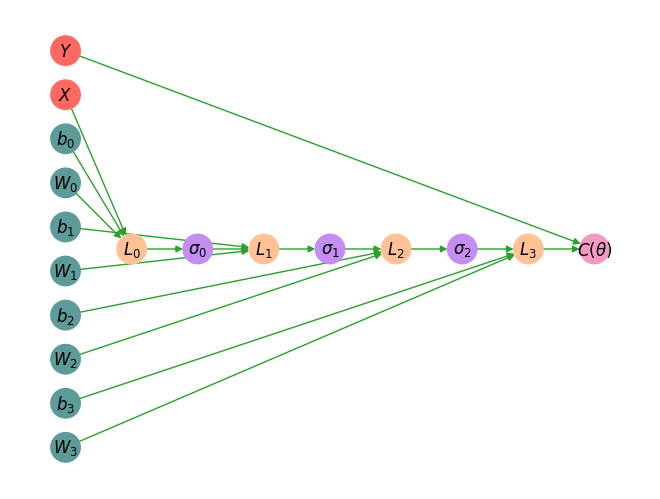
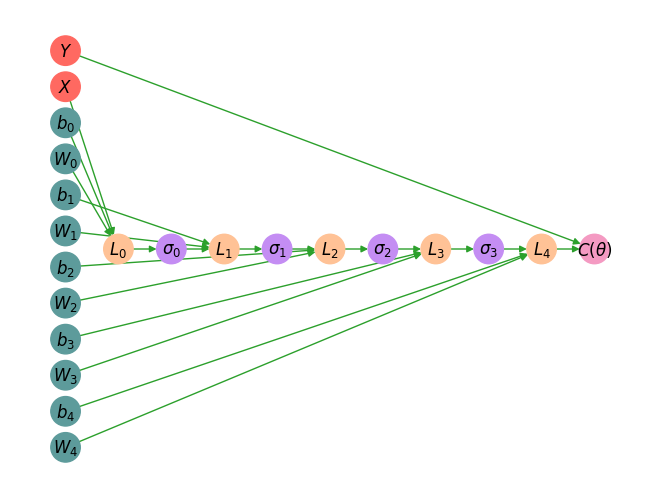
Adam implementation

diff --git a/assignment_1/my_mlp.py b/assignment_1/my_mlp.py
@@ -5,6 +5,8 @@ import matplotlib.pyplot as plt
 from torch.utils.data import Dataset, DataLoader
 import torch.distributions.uniform as urand
 from torch import nn
+import numpy as np
+import imageio
 
 
 class Node:
@@ -16,6 +18,8 @@ class Node:
 		self.is_updatable = is_updatable #for update the parameters
 		self.label = label # label for graph plot
 		self.color = color # color for graph plot
+	def add_edge(self, node):
+		self.parents.append(node)
 	def eval(self):
 		raise NotImplementedError
 	def update_derivatives(self):
@@ -62,6 +66,16 @@ class Sigmoid(Node):
 		s = self.value
 		d = s * (1 - s)
 		self.parents[0].grad += d * self.grad
+class ReLU(Node):
+	def __init__(self):
+		Node.__init__(self,[],label="$\sigma",color="#C48DF3")
+	def eval(self):
+		input = self.parents[0].value
+		self.value = torch.maximum(0*input, input)
+	def update_derivatives(self):
+		self.eval()
+		s = self.value		
+		self.parents[0].grad += (s > 0).float() * self.grad
 
 class MSE(Node):
 	def __init__(self, model):
@@ -123,6 +137,25 @@ class SGD:
 	def step(self):
 		for node in self.trainable_nodes:
 			node.value += -self.learning_rate * node.grad
+class Adam:
+	def __init__(self, trainable_nodes, learning_rate = 0.001, beta_1 = 0.9, beta_2 = 0.999):
+		self.trainable_nodes = trainable_nodes
+		self.learning_rate = learning_rate
+		self.beta_1 = beta_1
+		self.beta_2 = beta_2
+		self.n = len(trainable_nodes)
+		self.s = [0] * self.n # first moment variable
+		self.r = [0] * self.n # second moment variable
+		self.epslon = 1e-6 # avoid division by zero
+	def step(self):
+		for i in range(self.n):
+			node = self.trainable_nodes[i]
+			g = node.grad
+			self.s[i] = self.beta_1 * self.s[i] + (1 - self.beta_1)*g
+			self.r[i] = self.beta_2 * self.r[i] + (1 - self.beta_2)*(g*g)
+			s_c = self.s[i] / (1 - self.beta_1)
+			r_c = self.r[i] / (1 - self.beta_2)
+			node.value += -self.learning_rate * (s_c /(torch.sqrt(r_c) + self.epslon))
 
 class GraphNetwork:
 	def __init__(self, *args):
@@ -131,10 +164,10 @@ class GraphNetwork:
 		self.last_node = args[-1]
   		#update graph adjacency list
 		for i in range(1 , n_nodes):
-			args[i].parents.append(args[i-1])
+			args[i].add_edge(args[i-1])
 		#create a X layer and a Y layer
 		self.X = Const(label="$X$", color='#FF6961')
-		self.layers[0].parents.append(self.X) # create edge to first layer
+		self.layers[0].add_edge(self.X) # create edge to first layer
 		#sort the nodes in topological order for backpropagation
 		nodes_ordered = []
 		self.topological_sort(self.last_node, nodes_ordered)
@@ -188,19 +221,58 @@ class AlgebraicDataset(Dataset):
   def __getitem__(self, idx):
     return self.data[idx]
 
+def plot_comparison(f, model, interval=(-10, 10), nsamples=1000, return_array=True):
+  fig, ax = plt.subplots(figsize=(10, 10))
+
+  ax.grid(True, which='both')
+  ax.spines['left'].set_position('zero')
+  ax.spines['right'].set_color('none')
+  ax.spines['bottom'].set_position('zero')
+  ax.spines['top'].set_color('none')
+
+  samples = np.linspace(interval[0], interval[1], nsamples)
+  X =  torch.tensor(samples).unsqueeze(1).float()
+  pred = model.eval(X)
+#   model.eval()
+#   with torch.no_grad():
+#     pred = model(X)
+
+  ax.plot(samples, list(map(f, samples)), "o", label="ground truth")
+  ax.plot(samples, pred, label="model")
+  plt.legend()
+  #plt.show()
+  # to return image as numpy array
+  if return_array:
+    fig.canvas.draw()
+    img_from_plot = np.frombuffer(fig.canvas.tostring_rgb(), dtype=np.uint8)
+    return img_from_plot.reshape(fig.canvas.get_width_height()[::-1] + (3,))
+
+def test(model, dataloader, lossfunc):
+  '''A function for evaluating our model on test data'''  
+  cumloss = 0.0
+  for X, y in dataloader:
+      X = X.unsqueeze(1).float()
+      y = y.unsqueeze(1).float()
+
+      pred = model.eval(X)
+      loss = lossfunc.eval(pred, y)
+      cumloss += loss.item() 
+  
+  return cumloss / len(dataloader)
+
 class MultiLayerNetwork(nn.Module):
   def __init__(self):
     super().__init__()    
     self.layers = nn.Sequential(
         nn.Linear(1, 128),
-        nn.Sigmoid(),
-        nn.Linear(128,64),
-        nn.Sigmoid(),
+        nn.ReLU(),
+        nn.Linear(128, 64),
+        nn.ReLU(),
         nn.Linear(64, 32),
-    	nn.Sigmoid(),
-        nn.Linear(32,8),
-        nn.Sigmoid(),
-        nn.Linear(8,1),
+        nn.ReLU(),
+        nn.Linear(32, 8),
+        nn.ReLU(),
+        nn.Linear(8, 1),
     )
 
   def forward(self, x):
@@ -209,13 +281,13 @@ class MultiLayerNetwork(nn.Module):
 #build computational graph
 model = GraphNetwork(
  	Linear(1, 128),
-    Sigmoid(),
+    ReLU(),
     Linear(128,64),
-    Sigmoid(),
+    ReLU(),
     Linear(64, 32),
-    Sigmoid(),
+    ReLU(),
     Linear(32,8),
-    Sigmoid(),
+    ReLU(),
     Linear(8,1),
 )
 
@@ -223,13 +295,13 @@ model = GraphNetwork(
 loss = MSE(model.last_node)
 #loss.show()
 #build optmizer 
-optimizer = SGD(model.parameters(), learning_rate=1e-3)
+optimizer = Adam(model.parameters())
 #Load dataset
 model2 = MultiLayerNetwork()
 lossfunc2 = nn.MSELoss()
 optimizer2 = torch.optim.SGD(model2.parameters(), lr=1e-3)
 
-line = lambda x: 2*x + 3
+line = lambda x: np.cos(x) + 0.15*np.random.randn()
 
 interval = (-10, 10)
 train_nsamples = 1000
@@ -244,27 +316,29 @@ test_dataloader = DataLoader(test_dataset, batch_size=test_nsamples, shuffle=Tru
 
 def train(model, dataloader, lossfunc, optimizer, model2, lossfunc2, optimizer2):
 
+  #model2.train()
   cumloss = 0.0
   for X, y in dataloader:
     X = X.unsqueeze(1).float()
     y = y.unsqueeze(1).float()
 
     pred = model.eval(X)
-    pred2 = model2.forward(X)
+    #pred2 = model2(X)
     loss = lossfunc.eval(pred, y)
-    loss2 = lossfunc2(pred2, y)
+    #loss2 = lossfunc2(pred2, y)
+    #print((loss - loss2).item())
 
     # we need to "clean" the accumulated gradients
-    optimizer2.zero_grad()
+    #optimizer2.zero_grad()
     model.zero_grad()
     # computes gradients
     lossfunc.backward()
-    loss2.backward()
+    #loss2.backward()
     #check the gradient value
-    check = model2.layers[-3].bias.grad - model.layers[-3].parents[1].grad
+    #check = model2.layers[-3].bias.grad - model.layers[-3].parents[1].grad
     # updates parameters going in the direction that decreases the local error
     optimizer.step()
-    optimizer2.step()
+    #optimizer2.step()
 
     # loss is a tensor so we use *item* to get the underlying float value
     cumloss += loss.item() 
@@ -275,7 +349,18 @@ def train(model, dataloader, lossfunc, optimizer, model2, lossfunc2, optimizer2)
 epochs = 1001
 
 # Let''s make a Gif of the training
-filename_output = "./line_approximation.gif"
+filename_output = "./line_approximation_2.gif"
+writer = imageio.get_writer(filename_output, mode='I', duration=0.3)
 
 for t in range(epochs):
   train_loss = train(model, train_dataloader, loss, optimizer, model2, lossfunc2, optimizer2)
+  if t % 25 == 0:
+    print(f"Epoch: {t}; Train Loss: {train_loss}")
+    image = plot_comparison(line, model)
+    # appending to gif
+    writer.append_data(image)
+
+test_loss = test(model, test_dataloader, loss)
+print(f"Test Loss: {test_loss}")
+writer.close()
+  

diff --git a/assignment_1/lab1_fittingfunctions.py b/assignment_1/lab1_fittingfunctions.py
@@ -19,7 +19,15 @@ class LineNetwork(nn.Module):
     super().__init__()
     # a single perceptron
     self.layers = nn.Sequential(
-        nn.Linear(1, 1)
+        nn.Linear(1, 128),
+        nn.ReLU(),
+        nn.Linear(128, 64),
+        nn.ReLU(),
+        nn.Linear(64, 32),
+        nn.ReLU(),
+        nn.Linear(32, 8),
+        nn.ReLU(),
+        nn.Linear(8, 1),
     )
 
   # how the network operates
@@ -49,44 +57,48 @@ class AlgebraicDataset(Dataset):
 
   def __getitem__(self, idx):
     return self.data[idx]
+import matplotlib.pyplot as plt
 
 # we need a function
-line = lambda x: 2*x + 3
+line = lambda x: np.cos(x)
 # a domain for our function
 interval = (-10, 10)
 # the number of points we are going to sample for training
-train_nsamples = 1000
+train_nsamples = 300
 # the number of points we are going to evaluate our model on
 test_nsamples = 100
 
 train_dataset = AlgebraicDataset(line, interval, train_nsamples)
 test_dataset = AlgebraicDataset(line, interval, test_nsamples)
 
-train_dataloader = DataLoader(train_dataset, batch_size=train_nsamples, shuffle=True)
-test_dataloader = DataLoader(test_dataset, batch_size=test_nsamples, shuffle=True)
+# for pt in train_dataset.data:
+#   plt.plot(pt[0].item(), pt[1].item(),'o')
+
+# plt.show()
+batch_size = 16
+train_dataloader = DataLoader(train_dataset, batch_size=batch_size, shuffle=True)
+test_dataloader = DataLoader(test_dataset, batch_size=batch_size, shuffle=True)
 
 """# 3.2 Hyperparameters for Optimization"""
 
 device = "cuda" if torch.cuda.is_available() else "cpu"
 print(f"running on {device}")
 
-model = LineNetwork().to(device)
+model = LineNetwork()
 
 # Loss Function: Mean Squared Error
 lossfunc = nn.MSELoss()
 # SGD = Stochastic Gradient Descent
 # lr = learning rate
-optimizer = torch.optim.SGD(model.parameters(), lr=1e-3)
+optimizer = torch.optim.Adam(model.parameters(), lr=1e-3)
 
-m = nn.Linear(20, 30)
-input = torch.randn(128, 9)
-#output = model(input)
-net = torch.nn.Linear(9,1)
-output = net(input)
-
-total_params = sum(p.numel() for p in m.parameters())
-
-print(output.size())
+# m = nn.Linear(20, 30)
+# input = torch.randn(128, 9)
+# #output = model(input)
+# net = torch.nn.Linear(9,1)
+# output = net(input)
+# total_params = sum(p.numel() for p in m.parameters())
+# print(output.size())
 
 
 def train(model, dataloader, lossfunc, optimizer):
@@ -96,8 +108,8 @@ def train(model, dataloader, lossfunc, optimizer):
   cumloss = 0.0
   count = 0
   for X, y in dataloader:
-    X = X.unsqueeze(1).float().to(device)
-    y = y.unsqueeze(1).float().to(device)
+    X = X.unsqueeze(1).float()
+    y = y.unsqueeze(1).float()
 
     pred = model(X)
     loss = lossfunc(pred, y)
@@ -123,8 +135,8 @@ def test(model, dataloader, lossfunc):
   cumloss = 0.0
   with torch.no_grad():
     for X, y in dataloader:
-      X = X.unsqueeze(1).float().to(device)
-      y = y.unsqueeze(1).float().to(device)
+      X = X.unsqueeze(1).float()
+      y = y.unsqueeze(1).float()
 
       pred = model(X)
       loss = lossfunc(pred, y)
@@ -143,7 +155,7 @@ import matplotlib.pyplot as plt
 from skimage import img_as_ubyte
 
 # To visualize results
-def plot_comparison(f, model, interval=(-10, 10), nsamples=10, return_array=True):
+def plot_comparison(f, model, interval=(-10, 10), nsamples=25, return_array=True):
   fig, ax = plt.subplots(figsize=(10, 10))
 
   ax.grid(True, which='both')
@@ -160,14 +172,14 @@ def plot_comparison(f, model, interval=(-10, 10), nsamples=10, return_array=True
   ax.plot(samples, list(map(f, samples)), "o", label="ground truth")
   ax.plot(samples, pred.cpu(), label="model")
   plt.legend()
-  plt.show()
+  #plt.show()
   # to return image as numpy array
   if return_array:
     fig.canvas.draw()
     img_from_plot = np.frombuffer(fig.canvas.tostring_rgb(), dtype=np.uint8)
     return img_from_plot.reshape(fig.canvas.get_width_height()[::-1] + (3,))
 
-epochs = 1001
+epochs = 1000
 
 # Let''s make a Gif of the training
 filename_output = "./line_approximation.gif"
@@ -184,24 +196,3 @@ for t in range(epochs):
 test_loss = test(model, test_dataloader, lossfunc)
 print(f"Test Loss: {test_loss}")
 writer.close()
-
-
-class MultiLayerNetwork(nn.Module):
-  def __init__(self):
-    super().__init__()
-    self.layers = nn.Sequential(
-        nn.Linear(1, 128),
-        nn.ReLU(),
-        nn.Linear(128, 64),
-        nn.ReLU(),
-        nn.Linear(64, 32),
-        nn.ReLU(),
-        nn.Linear(32, 8),
-        nn.ReLU(),
-        nn.Linear(8, 1),
-    )
-
-  def forward(self, x):
-    return self.layers(x)
-
-# Write your solution below this cell
